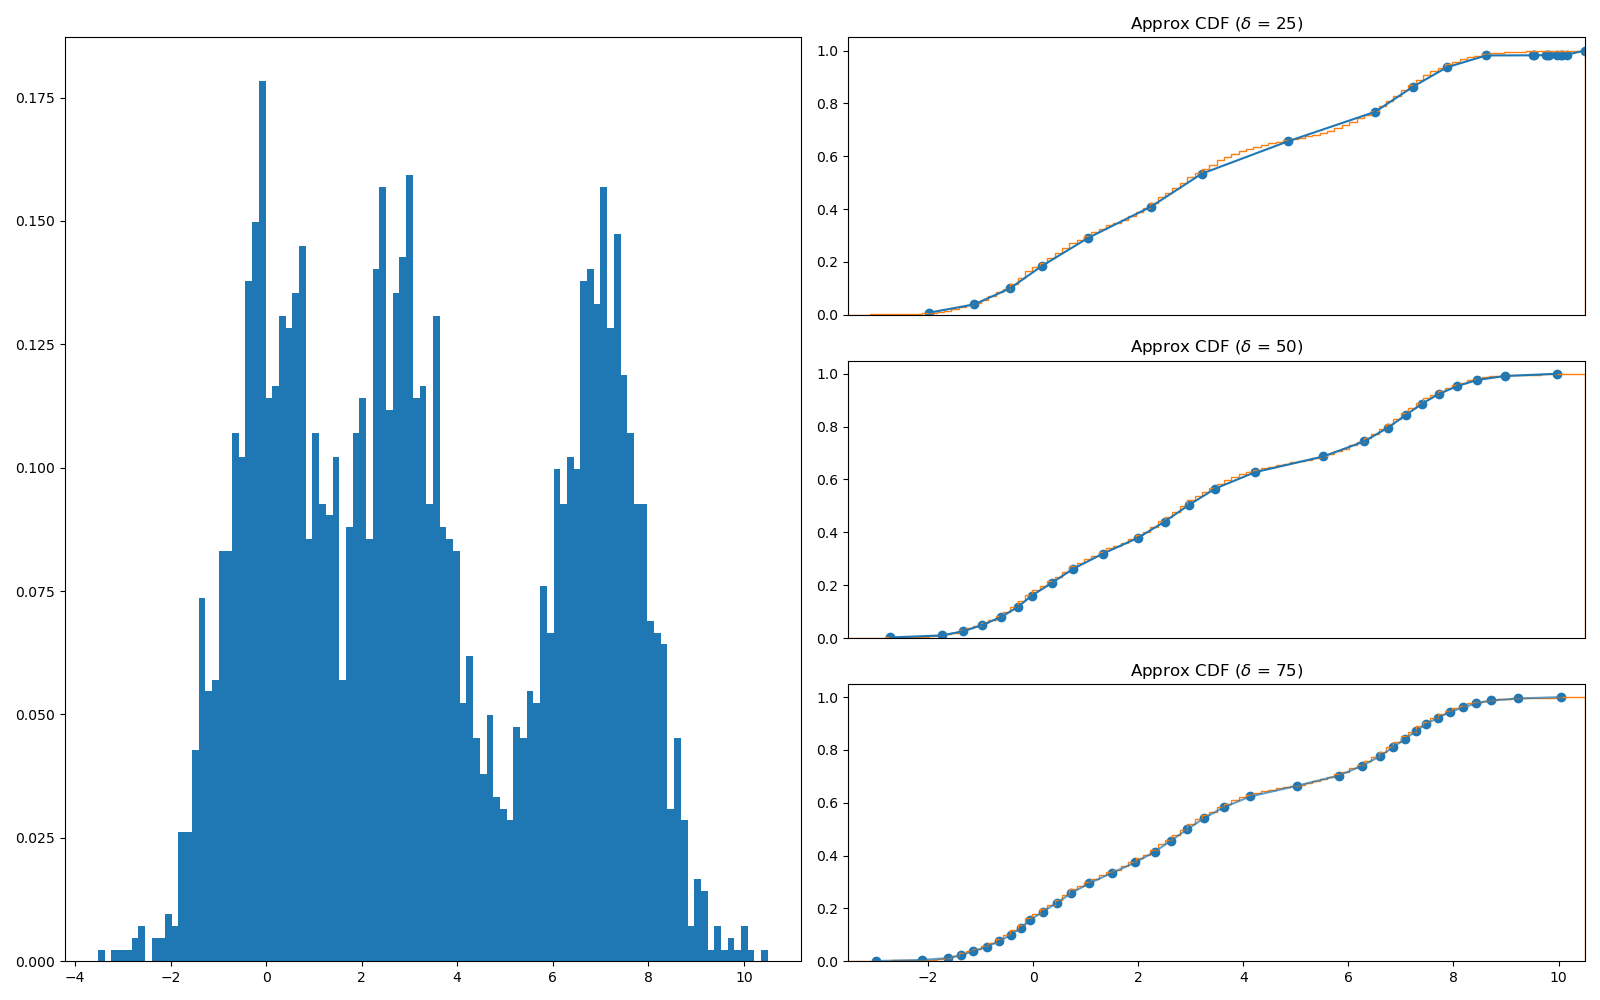
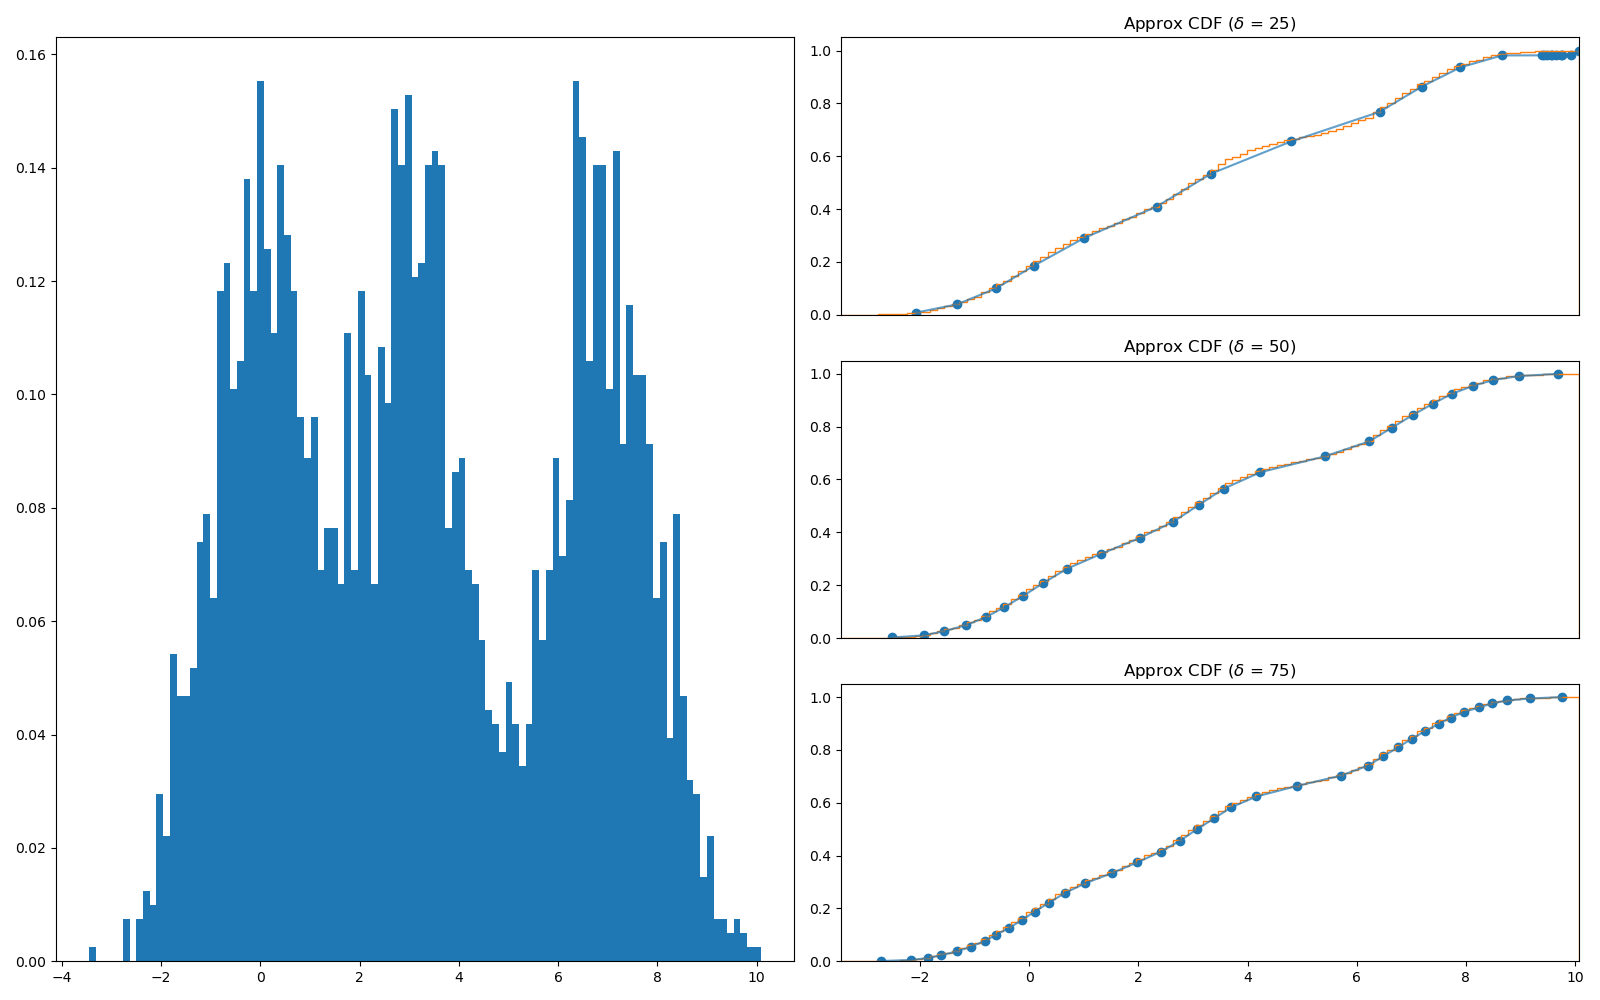
Update cdf plot

diff --git a/assets/code/t-digest/tdigest.py b/assets/code/t-digest/tdigest.py
@@ -412,7 +412,7 @@ def plot_cdf_examples():
   plt.subplot(322)
   centroids = [c.centroid for c in t1.clusters]
   q_approx = [t1.cdf(c) for c in centroids]
-  plt.plot(centroids, q_approx)
+  plt.plot(centroids, q_approx, alpha=0.7)
   plt.scatter(centroids, q_approx)
   plt.hist(x, density=True, bins=100, cumulative=True, histtype="step")
   plt.xlim([np.min(x), np.max(x)])
@@ -423,7 +423,7 @@ def plot_cdf_examples():
   plt.subplot(324)
   centroids = [c.centroid for c in t2.clusters]
   q_approx = [t2.cdf(c) for c in centroids]
-  plt.plot(centroids, q_approx)
+  plt.plot(centroids, q_approx, alpha=0.7)
   plt.scatter(centroids, q_approx)
   plt.hist(x, density=True, bins=100, cumulative=True, histtype="step")
   plt.xlim([np.min(x), np.max(x)])
